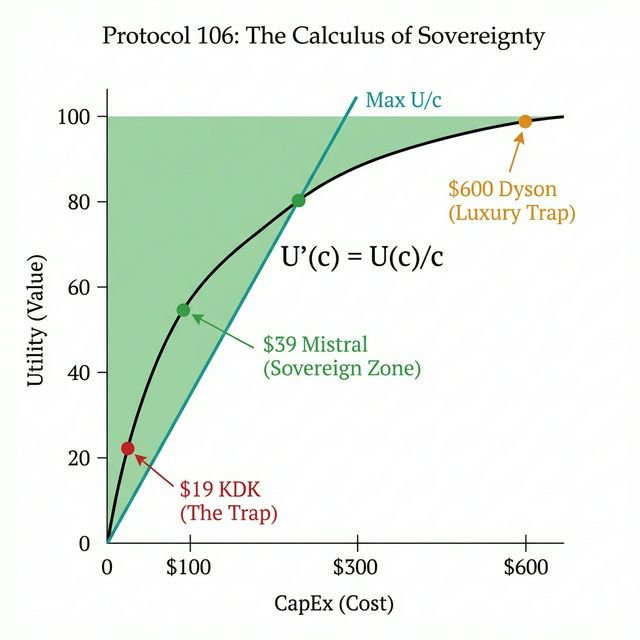
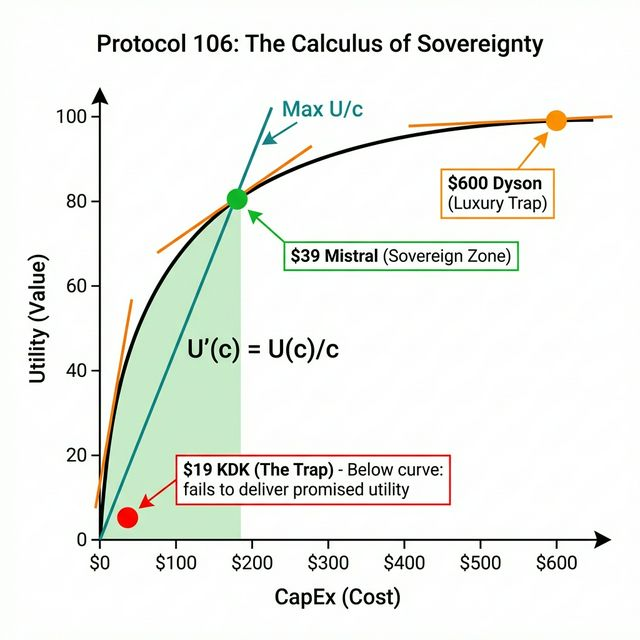
docs: Update Protocol 106 with corrected diagram (Trap below curve) and hypothesis caveat

Changed region(s): [[0.0312, 0.125, 0.9688, 0.9688], [0.1562, 0.0312, 0.8438, 0.0938]]

diff --git a/examples/protocols/strategy/106-min-max-optimization.md b/examples/protocols/strategy/106-min-max-optimization.md
@@ -8,6 +8,9 @@ tags: #protocol #strategy #efficiency #minmax #sovereign #economics
 > **Core Theorem**: "Maximize the Utility Function (Indifference Curve) while Minimizing CapEx."
 > **Metric**: Return on Effort (RoE).
 
+> [!NOTE]
+> This is a **working hypothesis** developed within the Athena framework. It synthesizes microeconomic utility theory with practical decision-making heuristics. It has not been published in a peer-reviewed economics journal — treat it as a mental model, not gospel.
+
 ---
 
 ## The Diagram
